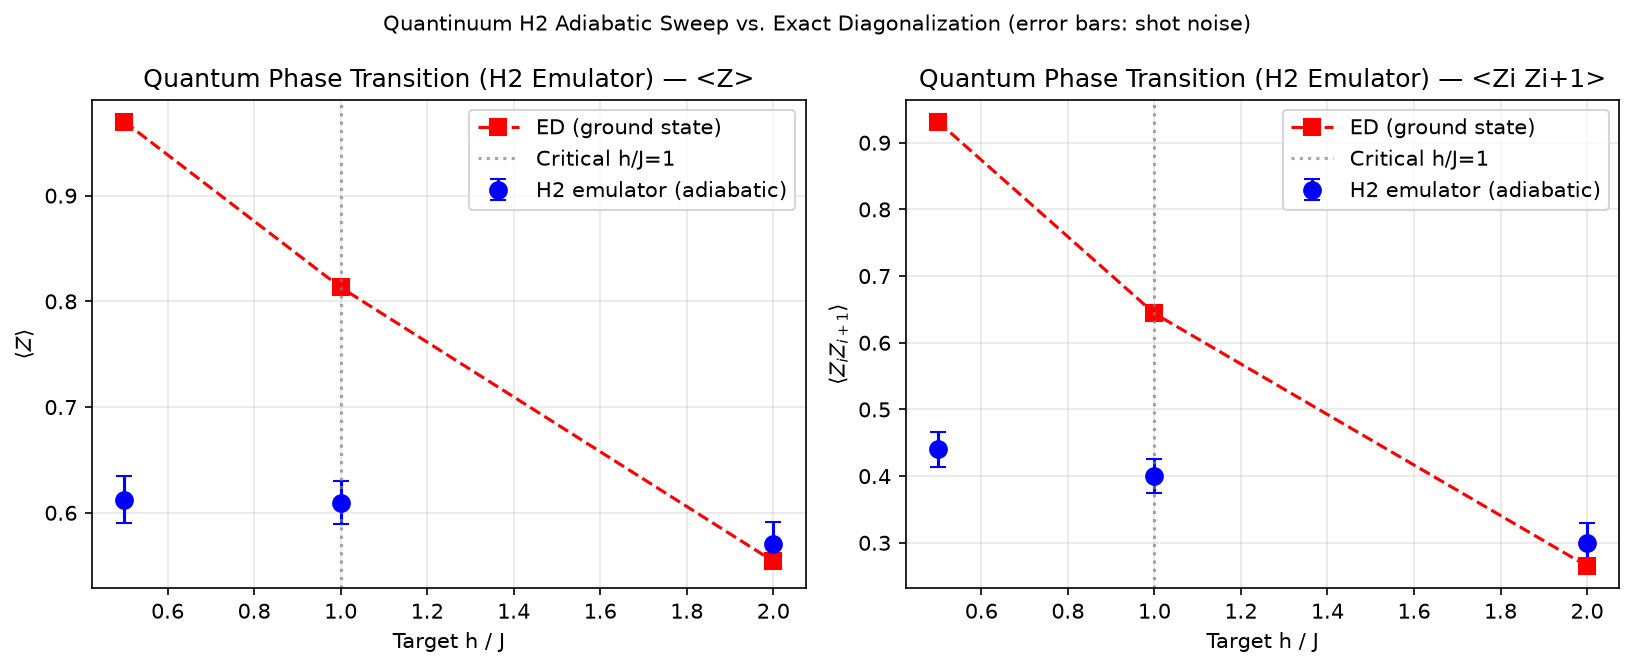
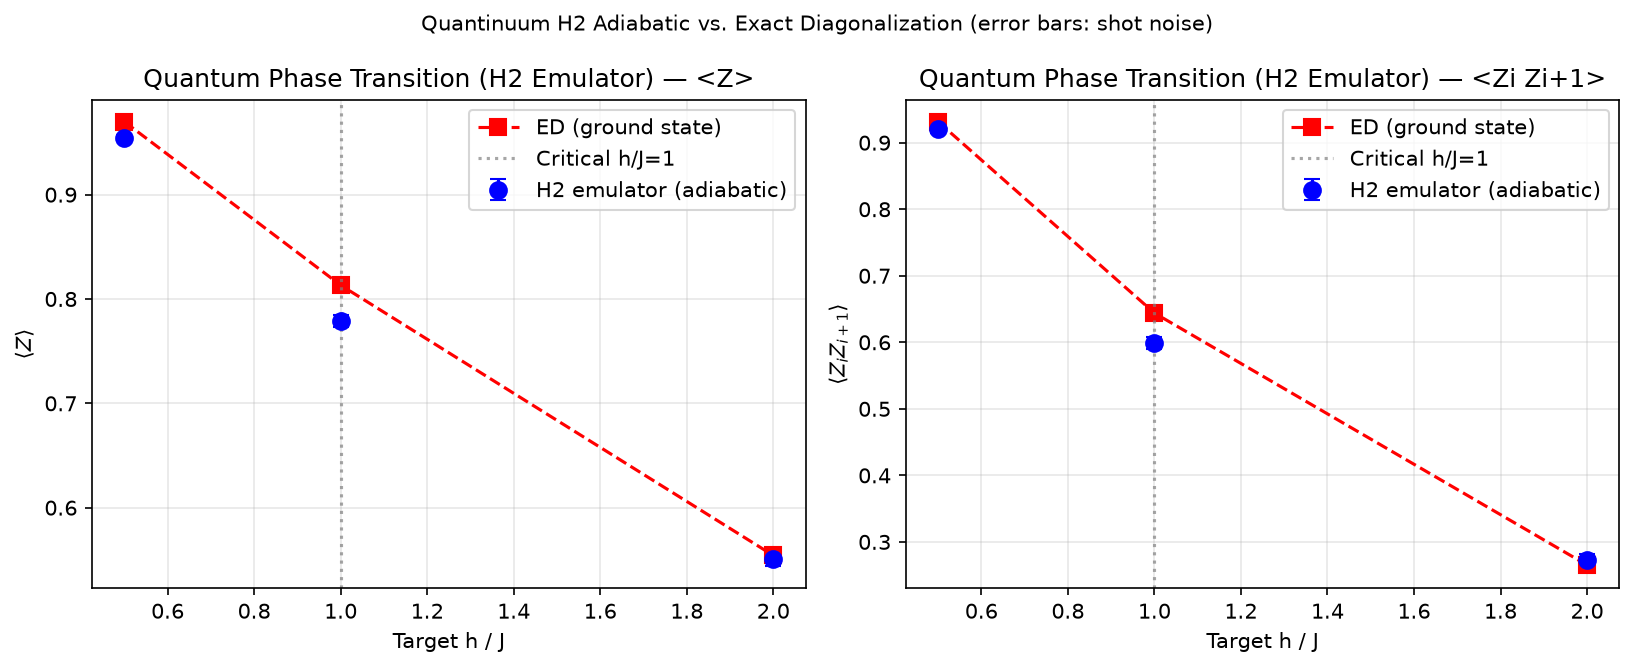
Update README.md: add details on gate reduction in pytket circuits and its impact on qubit count

diff --git a/README.md b/README.md
@@ -50,6 +50,7 @@ quantathon-challenge3/
 │   ├── exact_diagonalization.py       ← Línea base ED (estado fundamental y evolución exacta)
 │   ├── circuits.py                    ← Circuitos de Trotter para el simulador local (Qiskit, edge coloring, capa simétrica)
 │   ├── tket_circuit.py                ← Circuitos para hardware (pytket): quench (ZZPhase), barrido adiabático y ansatz HEA para VQE
+│   │                                     (con fusión de puertas Rx en los bordes de capa Trotter -- ver Metodología)
 │   ├── qnexus_backend.py              ← Envío/ejecución de circuitos pytket en Quantinuum vía qnexus (quench, adiabático, batch VQE)
 │   ├── vqe.py                         ← Búsqueda del estado fundamental por VQE (ansatz hardware-efficient + COBYLA) contra el emulador H2
 │   ├── trotter_simulation.py          ← Propagación del statevector (barrido adiabático y quench)
@@ -213,6 +214,25 @@ jupyter notebook notebooks/
   ```
 - **Verificación de convergencia:** reducir Δt a la mitad y confirmar estabilidad de observables
 - **SDK:** Qiskit (simulador local `Statevector`, sin ruido) → pytket + `qnexus` (emulador Quantinuum H2)
+- **Reducción de puertas en el circuito de hardware (pytket):** en la capa
+  simetrizada `Rx(θ/2) — ZZPhase — Rx(θ/2)` (`mirror=True`), la `Rx(θ/2)`
+  final de un paso de Trotter y la `Rx(θ/2)` inicial del siguiente actúan
+  sobre el mismo qubit sin nada entremedio, así que se fusionan de forma
+  exacta vía `Rx(a)·Rx(b) = Rx(a+b)` en una sola puerta — mismo unitario,
+  sin costo de error de Trotter, solo menos puertas de un qubit (`steps+1`
+  capas de Rx en vez de `2·steps`). Implementado en
+  `tket_circuit._append_trotter_layers` y verificado numéricamente
+  (diferencia de unitarios ~1e-15) antes de aplicarlo a
+  `build_quench_circuit`/`build_adiabatic_circuit`. En el barrido adiabático
+  de N=6 usado para el emulador H2 esto redujo el conteo total de puertas
+  ~33% (p. ej. h/J=0.5 con 100 pasos: 1812 → 1218 puertas, profundidad 402 →
+  303) sin cambiar ninguna observable. Inspirado por la técnica de
+  "reducción de conteo de puertas mediante identidades de circuito" de la
+  Ref. [6] (arXiv:2511.02125, Fig. S8) — ahí fusionan puertas SWAP
+  fermiónicas con puertas de interacción para el hopping de Fermi-Hubbard,
+  lo cual no aplica directamente aquí (TFIM ya es a primeros vecinos, sin
+  red de SWAPs), pero la misma identidad de fusión de rotaciones adyacentes
+  de un qubit sí se traslada directamente a esta capa Trotter simetrizada.
 
 ### Fase 3: Comparación y análisis de error
 